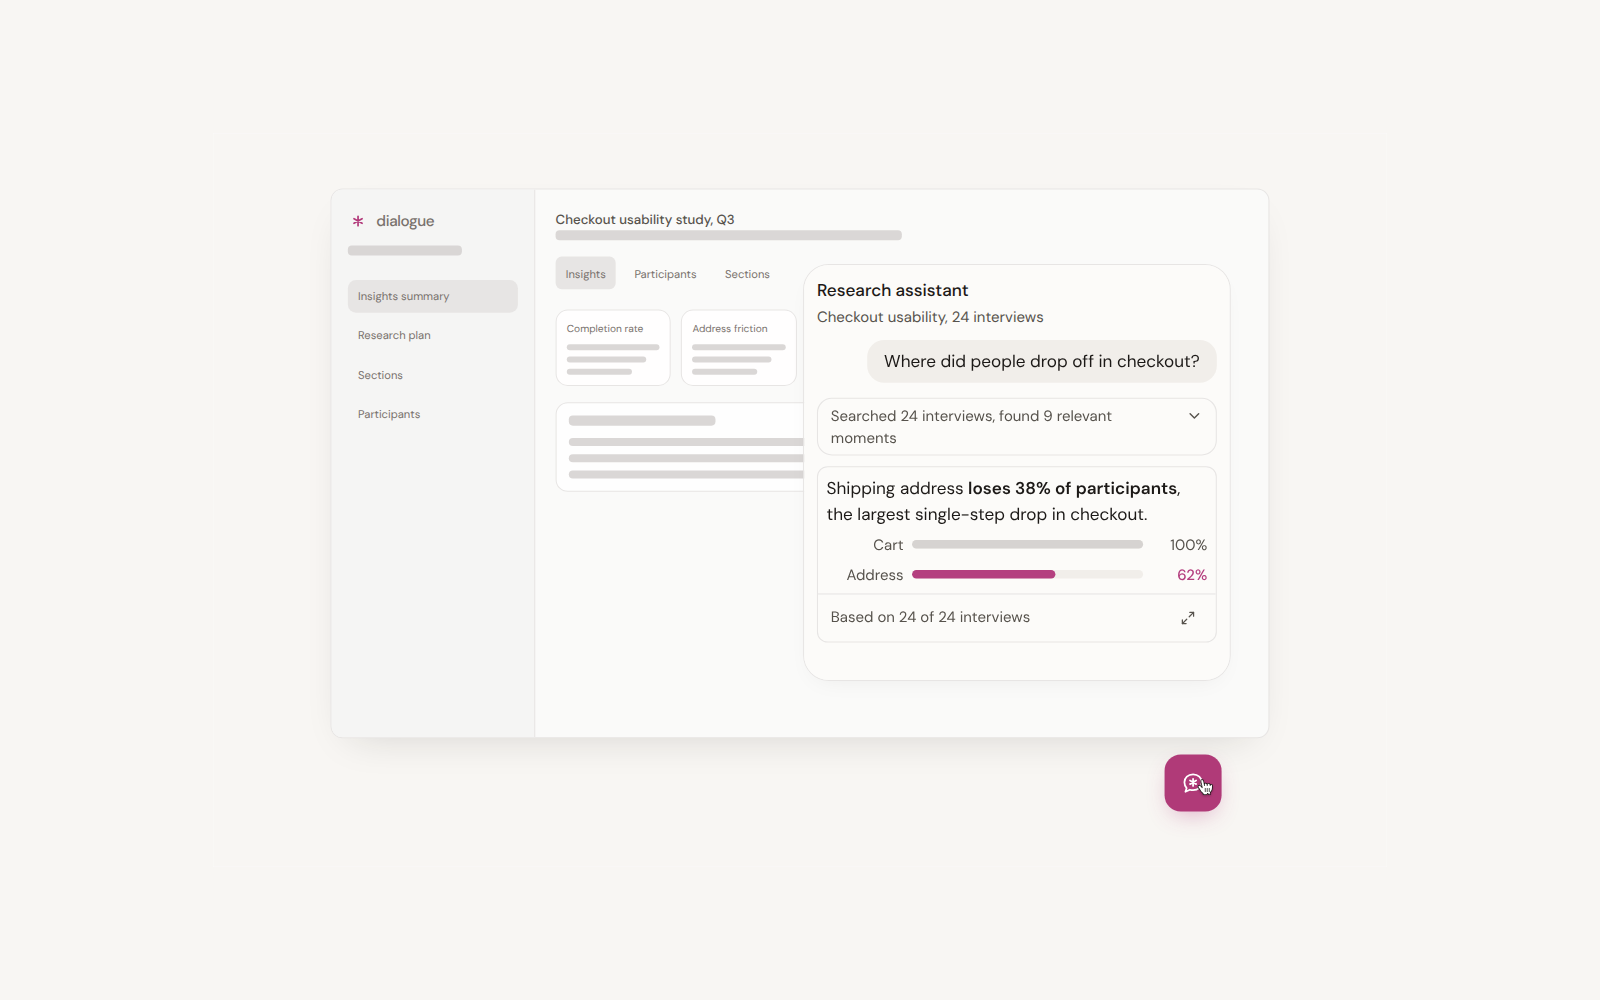
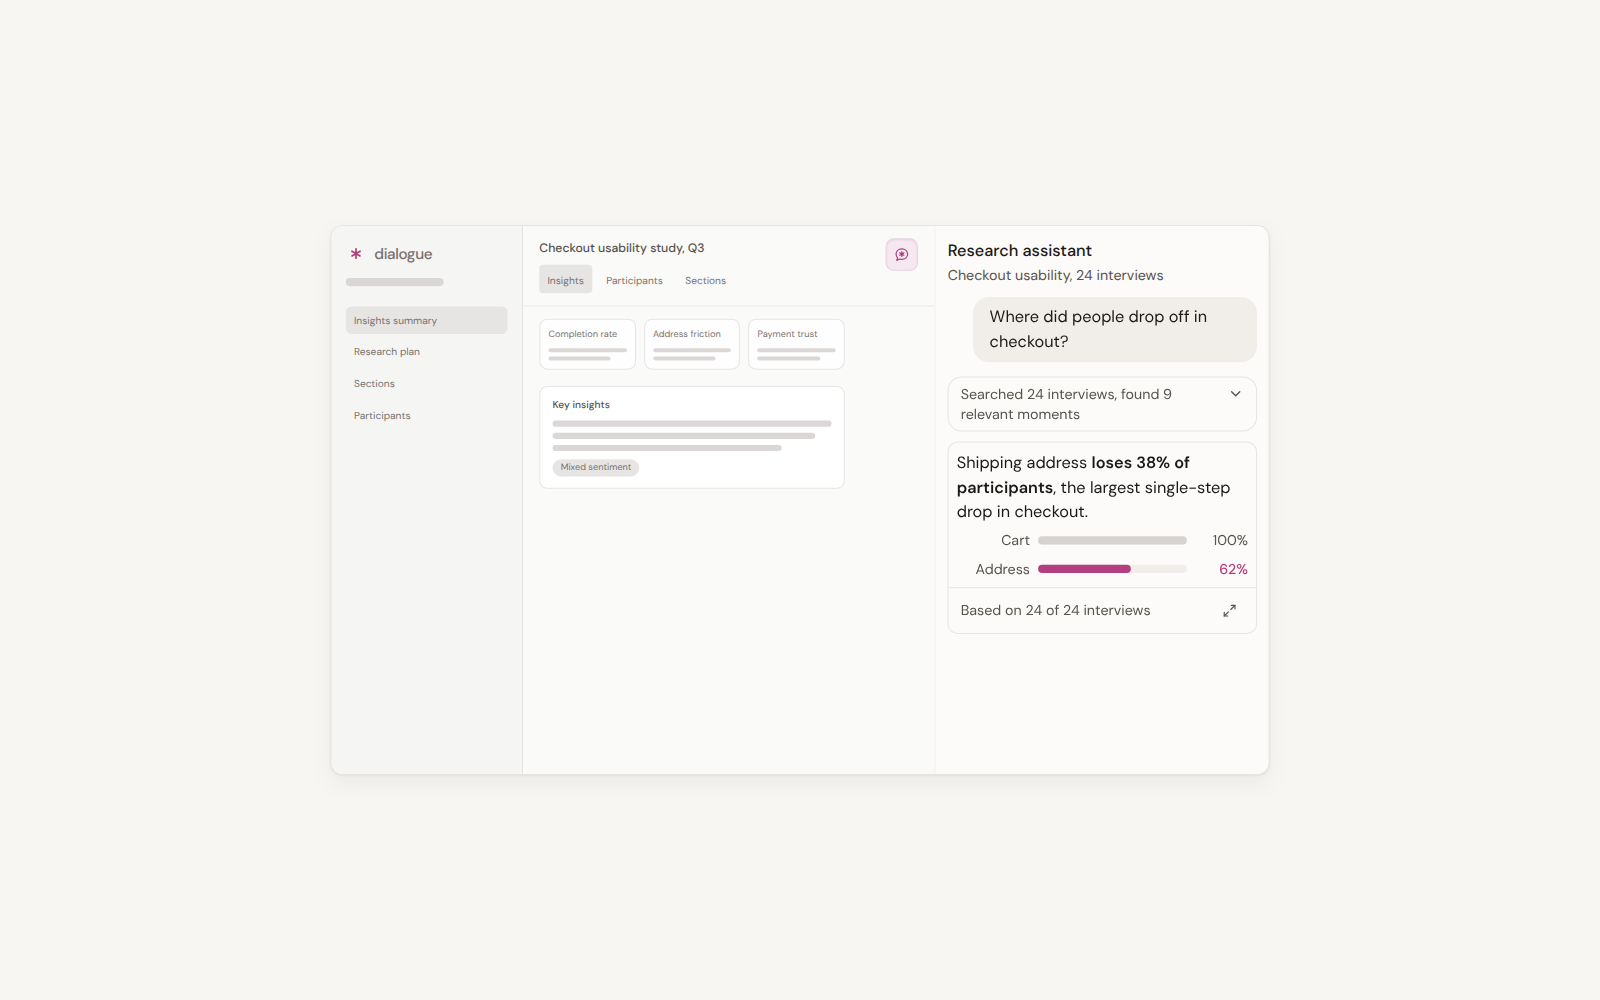
Update Dialogue graphics and add research assistant empty state
Replace section 1-7 assets and show section-6a in the solution flow
before the in-product panel screenshot.

Changed region(s): [[0.3438, 0.217, 0.7812, 0.62], [0.2188, 0.217, 0.2812, 0.434], [0.7188, 0.744, 0.7812, 0.837]]

diff --git a/app/dialogue/page.tsx b/app/dialogue/page.tsx
@@ -453,11 +453,6 @@ export default function DialogueCaseStudyPage() {
                 The research assistant stays on the study page, in Dialogue&apos;s visual style.
                 Only the answer changed.
               </Body>
-              <Figure
-                src={DIALOGUE_IMAGES.inProduct}
-                alt="Full study page with the research assistant docked on the right."
-                caption="The research assistant on a study page"
-              />
             </Section>
 
             <Section id="solution">
@@ -468,6 +463,16 @@ export default function DialogueCaseStudyPage() {
                 that proves it. That is what visualizing qualitative data for UX researchers
                 looked like in this exploration.
               </Body>
+              <Figure
+                src={DIALOGUE_IMAGES.assistantEmpty}
+                alt="Empty research assistant panel on a study page, titled Research assistant before a question is asked."
+                caption="The panel opens with Research assistant as its default title before any question"
+              />
+              <Figure
+                src={DIALOGUE_IMAGES.inProduct}
+                alt="Full study page with the research assistant docked on the right."
+                caption="The research assistant on a study page"
+              />
               <Figure
                 src={DIALOGUE_IMAGES.fullAnswer}
                 alt="Full structured answer with a drawer listing every supporting clip."

diff --git a/lib/caseStudies/dialogue.ts b/lib/caseStudies/dialogue.ts
@@ -15,6 +15,7 @@ export const DIALOGUE_IMAGES = {
   anatomy: "/dialogue/section-3.png",
   chartToClips: "/dialogue/section-4.png",
   clipPlayer: "/dialogue/section-5.png",
+  assistantEmpty: "/dialogue/section-6a.png",
   inProduct: "/dialogue/section-6.png",
   fullAnswer: "/dialogue/section-7.png",
 } as const;
